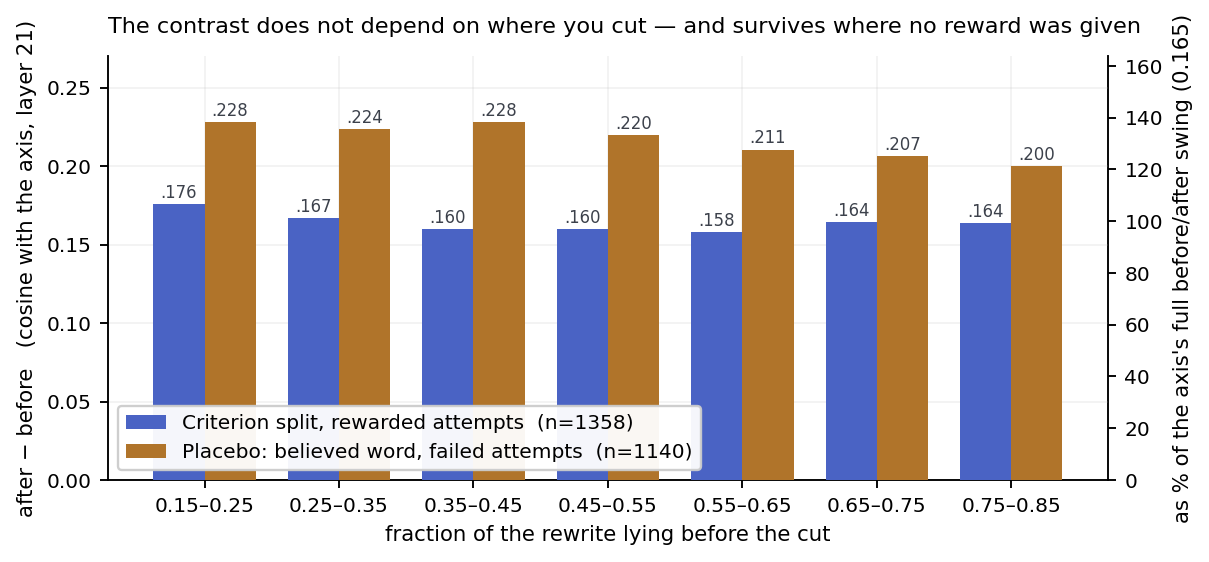
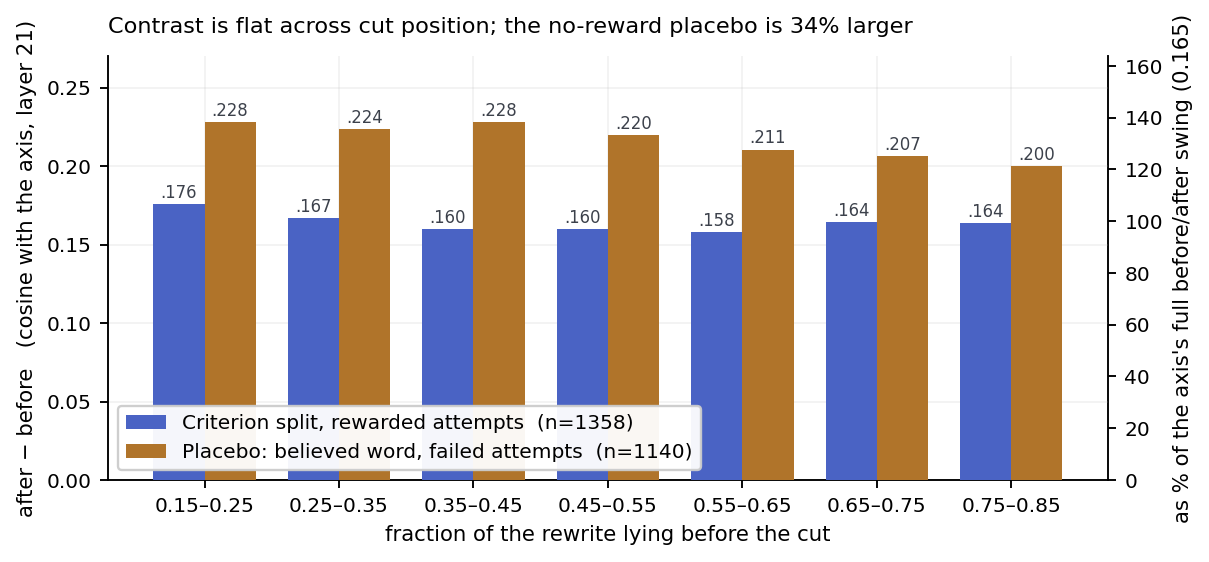
Clear the last em dashes from figure text; apply the stale w1 title
The fig_ramp title replacement had not taken, so the ramp figure still carried
the old rhetorical heading. It now reads "Contrast is flat across cut position;
the no-reward placebo is 34% larger".

Changed region(s): [[0.0918, 0.0302, 0.9487, 0.0605]]

diff --git a/make_figures.py b/make_figures.py
@@ -90,8 +90,8 @@ def fig_ramp():
     r = ax.secondary_yaxis("right", functions=(lambda v: v / RANGE * 100,
                                                lambda v: v * RANGE / 100))
     r.set_ylabel("as % of the axis's full before/after swing (0.165)")
-    ax.set_title("The contrast does not depend on where you cut — and survives "
-                 "where no reward was given", loc="left", pad=10)
+    ax.set_title("Contrast is flat across cut position; the no-reward placebo "
+                 "is 34% larger", loc="left", pad=10)
     ax.legend(loc="lower left", framealpha=.95)
     save(fig, "w1_ramp.png")
 
@@ -391,14 +391,14 @@ def fig_retry():
     deps = sorted(set(depth[retry].tolist()))
 
     fig, ax = plt.subplots(figsize=(7.2, 3.4))
-    for a, c, lab in [("diverse", INDIGO, "diverse — every attempt a new rewrite"),
-                      ("duplicate", AMBER, "duplicate — attempts 6-20 repeat verbatim\n"
+    for a, c, lab in [("diverse", INDIGO, "diverse: every attempt a new rewrite"),
+                      ("duplicate", AMBER, "duplicate: attempts 6-20 repeat verbatim\n"
                                            "(zero new information about the criterion)")]:
         ys = [cos[retry & (depth == k) & (arm == a)].mean() for k in deps]
         ax.plot(deps, ys, marker="o", ms=3.5, lw=1.4, color=c, label=lab, zorder=3)
     ax.axvline(5.5, color=GREY, ls=":", lw=1)
     ax.text(5.7, -0.056, "arms diverge here", fontsize=7.5, color=GREY)
-    ax.annotate("a value account needs the climb to REVERSE\nout here — it never does",
+    ax.annotate("a value account needs the climb to REVERSE\nout here; it never does",
                 xy=(18.5, -0.028), xytext=(9.6, -0.0165), fontsize=7.5, color="#3C414B",
                 arrowprops=dict(arrowstyle="->", color=GREY, lw=.9))
     ax.set_xlabel("consecutive failed attempts on the same paragraph")

diff --git a/WRITEUP.md b/WRITEUP.md
@@ -24,7 +24,7 @@ where you cut the paragraph and it appears 34% *larger* in failed attempts split
    follow-up, ending* (§3).
 
 **More speculatively***
-
+"Verbalized confidence in AIME questions": 
 
 This does not overturn the behavioral results. Backtracking, self-correction and
 the AIME correlations are real effects of this direction. The harder the task,
